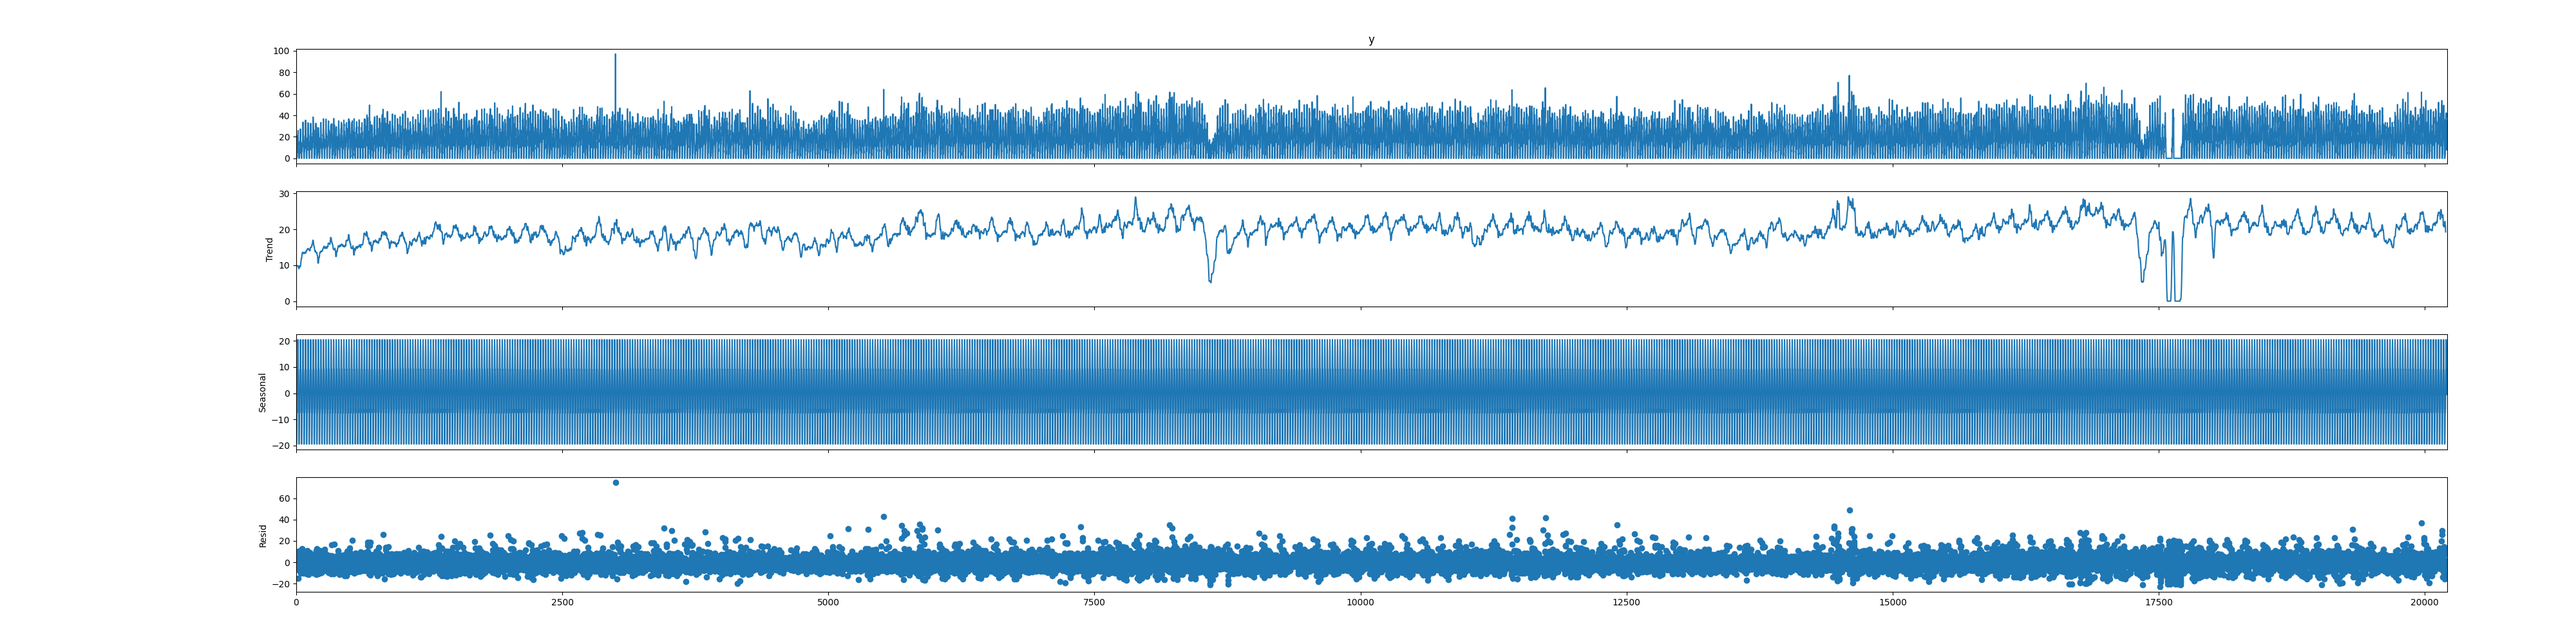
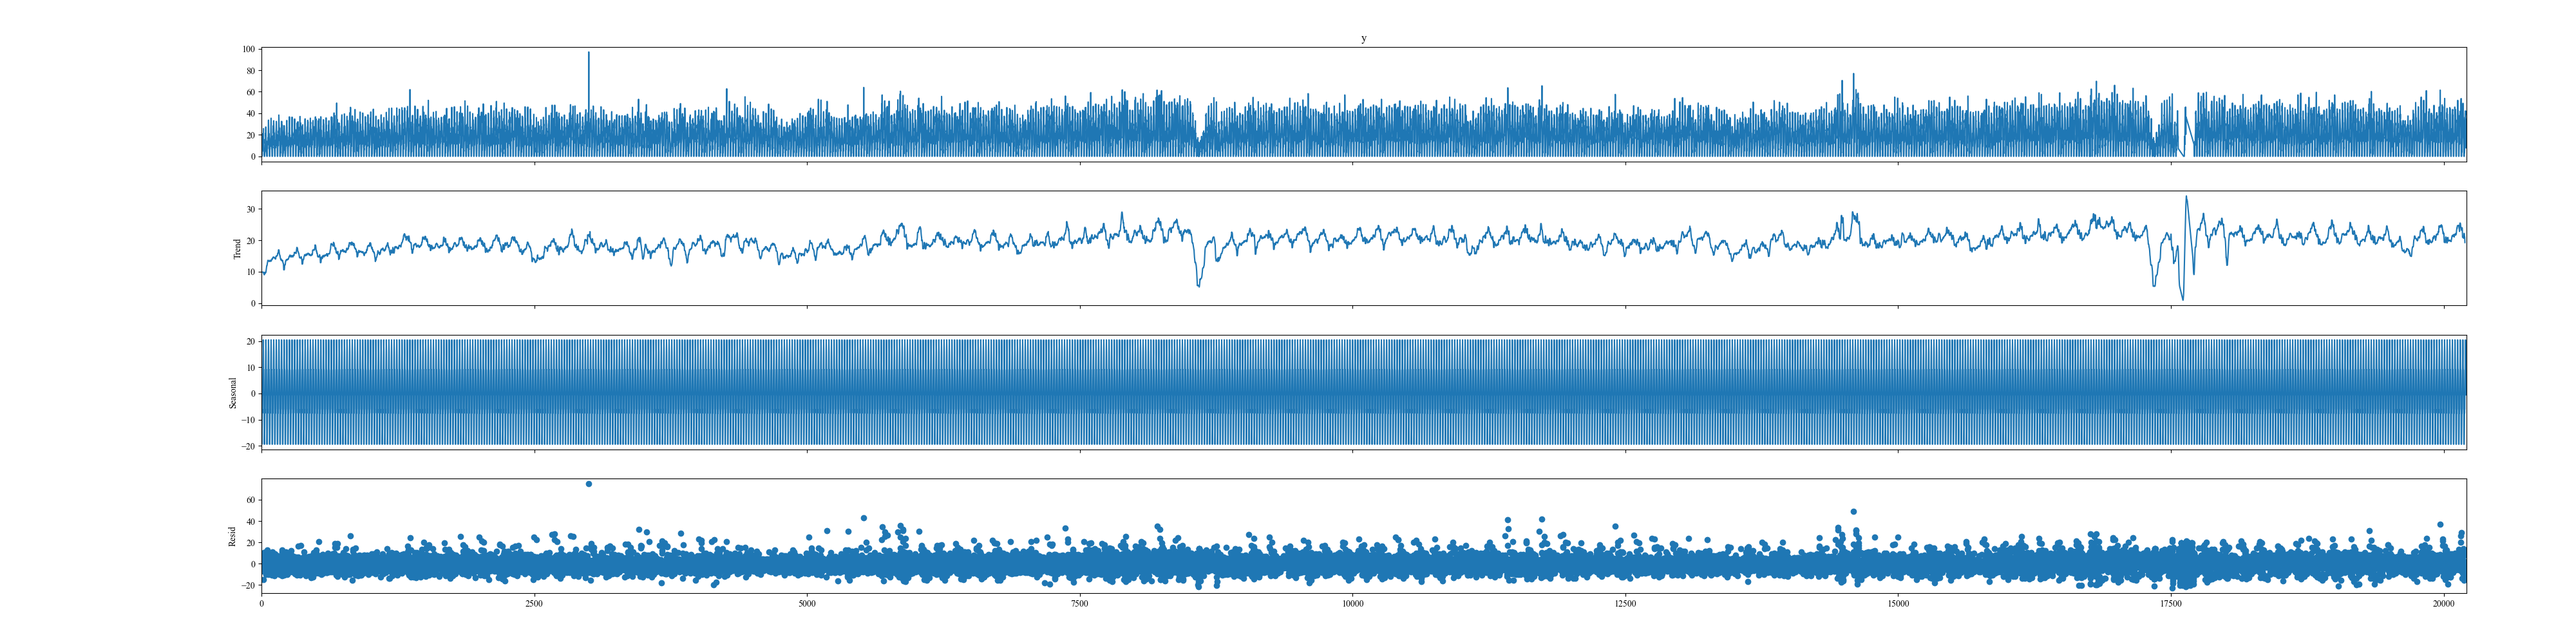
adding rolling origin imputation for decompose plots

diff --git a/src/visualize_data.py b/src/visualize_data.py
@@ -2,6 +2,8 @@ import pathlib
 import pandas as pd
 import matplotlib.pyplot as plt
 from statsmodels.tsa.seasonal import seasonal_decompose
+from data_utils import impute_missing
+
 
 def plot_timeseries(df, figsize:tuple=(40,10), ylim:tuple=(0,75), label_share=10, save_path=None, save_file=None, **kwargs):
     # reset index to ensure that the x-axis is the index
@@ -76,12 +78,15 @@ def main():
     # create another that is just the last two days
     df_two_days = df.tail(2*24)
     plot_timeseries(df_two_days, figsize=(25,10), ylim=(0,60), label_share = 2, save_path=plot_dir, save_file="norreport_1A_ts_two_days.png", linewidth=3)
+
+    # impute missing before decomposing
+    df = impute_missing(df, method='rolling', window=36)
     
     # plot the decomposed timeseries
-    #plot_decompose(df, freq=24, save_path=plot_dir, save_file="norreport_1A_decompose.png")
+    plot_decompose(df, freq=24, save_path=plot_dir, save_file="norreport_1A_decompose.png")
 
     # plot the decomposed timeseries for the last two days
-    #plot_decompose(df_recent, freq=24, save_path=plot_dir, save_file="norreport_1A_decompose_recent.png")
+    plot_decompose(df_recent, freq=24, save_path=plot_dir, save_file="norreport_1A_decompose_recent.png")
 
 if __name__ == "__main__":
     main()
